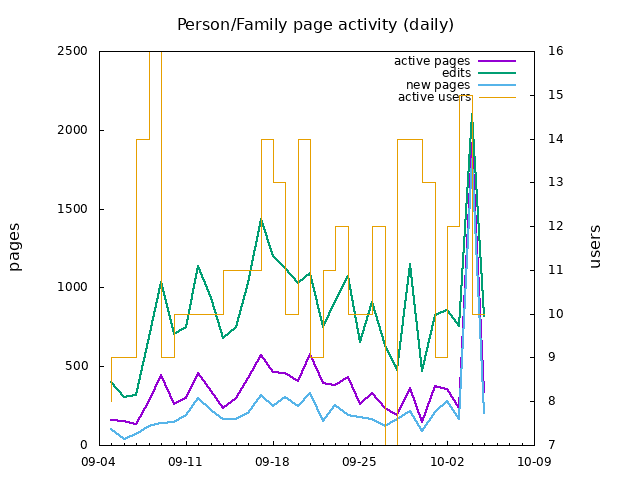
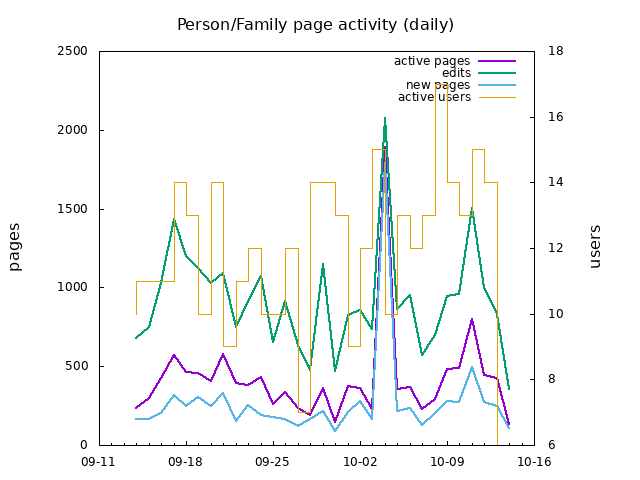
deal with merged pages and update reports

diff --git a/crawl.py b/crawl.py
@@ -52,6 +52,24 @@ def getrss(url):
             m = re.search('title="(Person|Family):(.+)">', item.find('description').text)
             if (m):
                 itemrec['title'] = itemrec['delete'] = m.group(1)+":"+m.group(2)
+
+        # in a merge, the second one is now a redirect
+        # <p>Merge <a href="/wiki/Person:Jean_Ballat_%281%29" title="Person:Jean Ballat (1)">Person:Jean Ballat (1)</a> and <a href="/wiki/Person:Jean_Bala_%282%29" title="Person:Jean Bala (2)">Person:Jean Bala (2)</a></p>
+        # <p>Unmerge <a href="/wiki/Person:Mary_Patterson_%28118%29" title="Person:Mary Patterson (118)">Person:Mary Patterson (118)</a> - reviewed father\'s will</p>
+        elif (itemrec['title'].startswith('Special:ReviewMerge')):
+            m = re.search('Merge <a .+>(Person|Family):(.+)</a> and <a .+>(Person|Family):(.+)</a>', item.find('description').text)
+            if (m):
+                itemrec['title'] = m.group(1)+":"+m.group(2)
+                itemrec['merge'] = m.group(3)+":"+m.group(4)
+                print(f"MERGE {itemrec['merge']} into {itemrec['title']}")
+            else:
+                m = re.search('Unmerge <a .+>(Person|Family):(.+)</a>', item.find('description').text)
+                if (m):
+                    itemrec['title'] = m.group(1)+":"+m.group(2)
+                    print(f"UNMERGE {itemrec['title']}")
+                else:
+                    raise Exception(f"Unknown merge action {item.find('description').text}")
+            
         elif (itemrec['title'] == 'Special:Log/move'):
             m = re.search(' title="(Person|Family):(.+)">.+> renamed to <.+ title="(Person|Family):(.+)">',
                          item.find('description').text)
@@ -327,6 +345,10 @@ def crawlrss():
         elif ('move' in p):
             print(f"RENAME {p['title']} to {p['move']}")
             renamepage(db, p['title'], p['move'])
+        elif ('merge' in p):
+            print(f"merge {p['merge']} to {p['title']}")
+            deletepage(db, p['merge'])
+            addpagehist(db, p['title'])
         elif (re.search('^(Person|Family):', p['title'])):
             addpagehist(db, p['title'])
     print(f"RSS summary: {len(pgs)} entries from {pgs[-1]['pubDate']} to {pgs[0]['pubDate']}")

diff --git a/reports/report-thismonth.md b/reports/report-thismonth.md
@@ -2,11 +2,11 @@
 title: WeRelate Monthly Activity Report
 ---
 
-Here is the activity in WeRelate for the month (2025-10-01 to 2025-10-05):
+Here is the activity in WeRelate for the month (2025-10-01 to 2025-10-14):
 
-There were 28 active users
-making 5351 edits to 3142 pages (Person and Family)
-of those pages, 2672 (1909 Person) of them were newly created.
+There were 48 active users
+making 13163 edits to 6334 pages (Person and Family)
+of those pages, 4900 (3353 Person) of them were newly created.
 
 There were 0 people who joined WeRelate this month:
 

diff --git a/index.md b/index.md
@@ -8,7 +8,7 @@ Here remixed version [the old growth graph](https://www.werelate.org/wiki/Image:
 
 ![werelate.org page activity](reports/tot-persons-old.png)
 
-from data in [reports/tot-persons-old.csv](reports/tot-persons-old.csv) (which is just the data from the original chart with some new columns derived from the existing ones)
+from data in [reports/tot-persons-old.csv](reports/tot-persons-old.csv) (which is just the data from the original chart in CSV form)
 
 Here is a new version of that chart, though it combines Person and Family pages:
 
